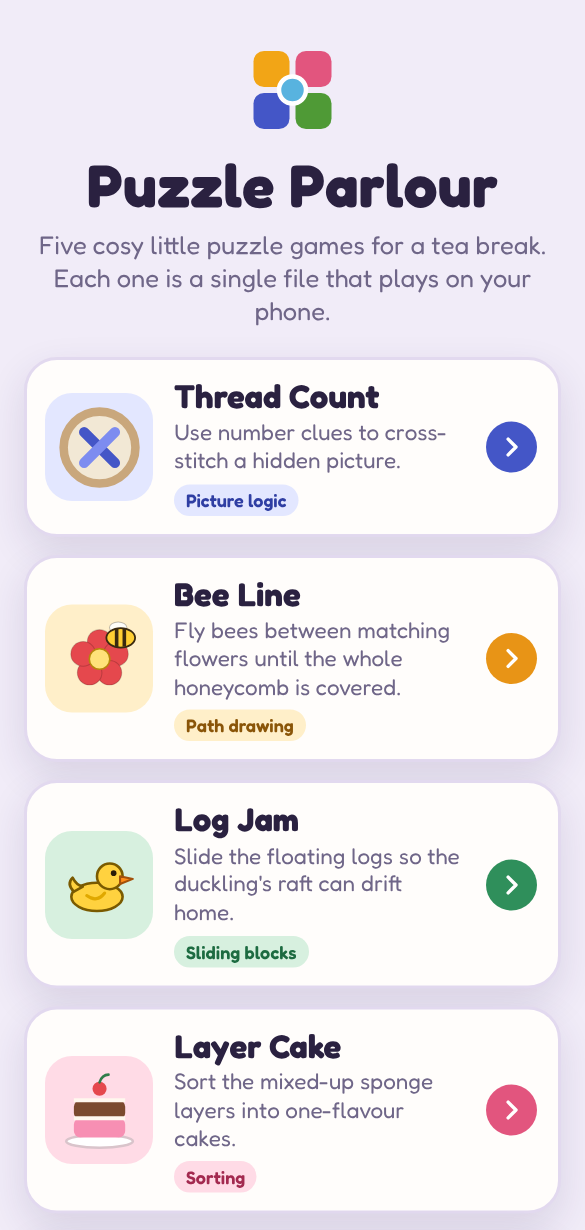
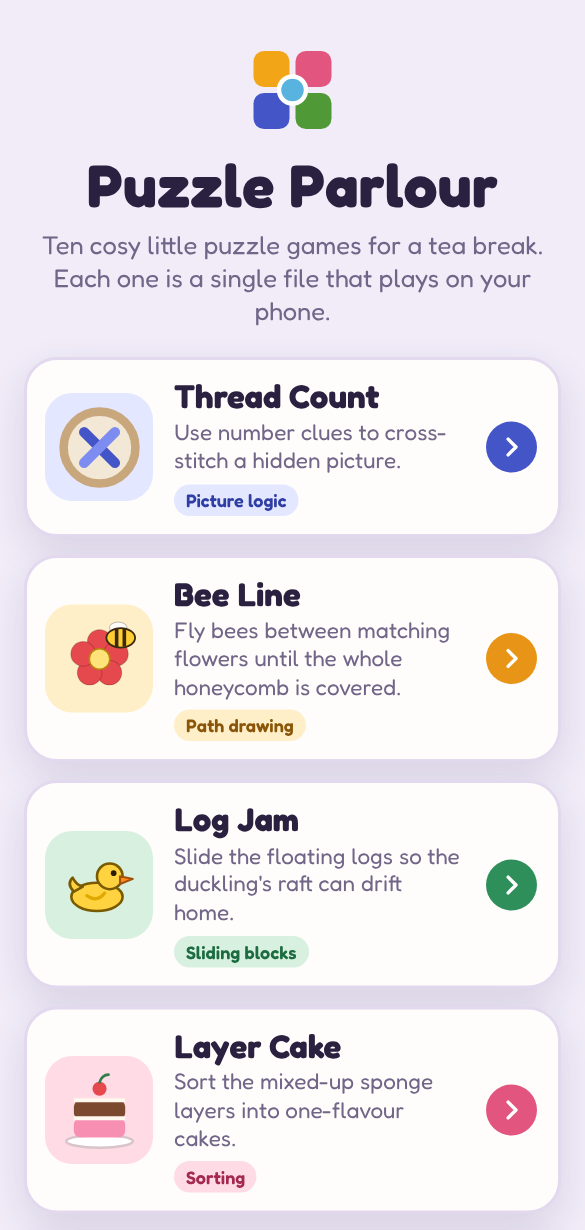
Add the five new games to the launcher
Puzzle Parlour now has ten games. The launcher gets cards for Fair Isle,
Sun Catcher, Patchwork, Truffle Hunt and Fence Line, each showing how
many levels you've solved, and says "ten" instead of "five".

- README: the five new rows in the games table, the zoom note now covers
  every game whose board grows, and the project layout lists the new
  folders. The launcher screenshot is regenerated.
- manifest.json describes all ten games.
- docker-compose.yml mounts the new folders, so `docker compose up`
  serves them too (install/run need no change: serve.py serves the
  whole folder).
- The launcher's service worker caches the new game pages for offline
  play, with a new cache version.

Claude-Session: https://claude.ai/code/session_01G8sKW49SPKUj1opTJDjfuR

Changed region(s): [[0.0615, 0.1854, 0.9231, 0.2163]]

diff --git a/index.html b/index.html
@@ -5,7 +5,7 @@
 <meta name="viewport" content="width=device-width, initial-scale=1, viewport-fit=cover">
 <title>Puzzle Parlour</title>
 <meta name="claude:viewport-fit-sides" content="cover">
-<meta name="description" content="Five cosy, phone-friendly puzzle games in single HTML files.">
+<meta name="description" content="Ten cosy, phone-friendly puzzle games in single HTML files.">
 <meta name="theme-color" content="#f1ecf8" media="(prefers-color-scheme: light)">
 <meta name="theme-color" content="#15111f" media="(prefers-color-scheme: dark)">
 <link rel="manifest" href="manifest.json">
@@ -81,7 +81,7 @@ h1{text-wrap:balance}
   <header>
     <svg class="mark" viewBox="0 0 64 64" aria-hidden="true"><rect x="6" y="6" width="24" height="24" rx="7" fill="#f2a516"/><rect x="34" y="6" width="24" height="24" rx="7" fill="#e2557e"/><rect x="6" y="34" width="24" height="24" rx="7" fill="#4456c7"/><rect x="34" y="34" width="24" height="24" rx="7" fill="#4f9a36"/><circle cx="32" cy="32" r="9" fill="#58b3df" stroke="#fff" stroke-width="3"/></svg>
     <h1>Puzzle Parlour</h1>
-    <p>Five cosy little puzzle games for a tea break. Each one is a single file that plays on your phone.</p>
+    <p>Ten cosy little puzzle games for a tea break. Each one is a single file that plays on your phone.</p>
   </header>
 
   <main class="list">
@@ -108,6 +108,31 @@ h1{text-wrap:balance}
     <a class="game" href="green-thumb/index.html#parlour" data-key="green-thumb-v1" style="--tint:#4f9a36;--tint-bg:#ddf0cf;--tint-ink:#356b22">
       <span class="icon"><svg viewBox="0 0 100 100"><line x1="50" y1="50" x2="50" y2="2" stroke="#8a4f27" stroke-width="36"/><line x1="50" y1="50" x2="98" y2="50" stroke="#8a4f27" stroke-width="36"/><line x1="50" y1="50" x2="50" y2="2" stroke="#b5703f" stroke-width="30"/><line x1="50" y1="50" x2="98" y2="50" stroke="#b5703f" stroke-width="30"/><line x1="50" y1="50" x2="50" y2="2" stroke="#3aa0e3" stroke-width="13" stroke-linecap="round"/><line x1="50" y1="50" x2="98" y2="50" stroke="#3aa0e3" stroke-width="13" stroke-linecap="round"/><circle cx="50" cy="50" r="24" fill="#9b5a33" stroke="#6e3c1f" stroke-width="4"/><g fill="#ff7aa2" stroke="rgba(0,0,0,.15)" stroke-width="1.5"><circle cx="63" cy="50" r="10"/><circle cx="56.5" cy="61.3" r="10"/><circle cx="43.5" cy="61.3" r="10"/><circle cx="37" cy="50" r="10"/><circle cx="43.5" cy="38.7" r="10"/><circle cx="56.5" cy="38.7" r="10"/></g><circle cx="50" cy="50" r="8" fill="#ffd84d" stroke="#c99a1a" stroke-width="2"/></svg></span>
       <span><span class="name">Green Thumb</span><span class="tag" style="display:block">Turn the garden pipes until every seedling is watered.</span><span class="meta"><span class="chip">Pipe rotation</span><span class="chip prog"></span></span></span>
+      <span class="go"><svg viewBox="0 0 24 24" fill="none" stroke="currentColor" stroke-width="3" stroke-linecap="round" stroke-linejoin="round"><path d="M9 5l7 7-7 7"/></svg></span>
+    </a>
+    <a class="game" href="fair-isle/index.html#parlour" data-key="fair-isle-v1" style="--tint:#7a4c9f;--tint-bg:#efe3f8;--tint-ink:#5a3480">
+      <span class="icon"><svg viewBox="0 0 48 48"><path d="M14.5 7.5L30 36M33.5 7.5L18 36" stroke="#e3bd88" stroke-width="3.2" stroke-linecap="round"/><circle cx="14.4" cy="7" r="3" fill="#f2b84b"/><circle cx="33.6" cy="7" r="3" fill="#f2b84b"/><path d="M33 37.5c3 2.2 5.6 3 8.6 2.4" fill="none" stroke="#b8323f" stroke-width="2" stroke-linecap="round"/><circle cx="24" cy="29" r="13.5" fill="#cc3b4d"/><g fill="none" stroke="#8e2433" stroke-width="1.1" opacity=".85"><ellipse cx="24" cy="29" rx="13.3" ry="3.6" transform="rotate(-28 24 29)"/><ellipse cx="24" cy="29" rx="13.3" ry="6.2" transform="rotate(-28 24 29)"/><ellipse cx="24" cy="29" rx="13.3" ry="8.6" transform="rotate(-28 24 29)"/><ellipse cx="24" cy="29" rx="13.3" ry="3.2" transform="rotate(62 24 29)"/><ellipse cx="24" cy="29" rx="13.3" ry="5.8" transform="rotate(62 24 29)"/></g></svg></span>
+      <span><span class="name">Fair Isle</span><span class="tag" style="display:block">Knit a hidden picture from coloured number clues.</span><span class="meta"><span class="chip">Colour picture logic</span><span class="chip prog"></span></span></span>
+      <span class="go"><svg viewBox="0 0 24 24" fill="none" stroke="currentColor" stroke-width="3" stroke-linecap="round" stroke-linejoin="round"><path d="M9 5l7 7-7 7"/></svg></span>
+    </a>
+    <a class="game" href="sun-catcher/index.html#parlour" data-key="sun-catcher-v1" style="--tint:#6a46c4;--tint-bg:#ebe3ff;--tint-ink:#4b2d99">
+      <span class="icon"><svg viewBox="0 0 48 48"><path d="M8 45V20A16 15 0 0 1 40 20V45Z" fill="#b8895a"/><path d="M11.5 20A12.5 11.5 0 0 1 36.5 20Z" fill="#2a2530"/><g stroke="#2a2530" stroke-width="1"><path d="M24 20L12.6 20A11.4 10.4 0 0 1 15.9 12.6Z" fill="#ffd76e"/><path d="M24 20L15.9 12.6A11.4 10.4 0 0 1 24 9.6Z" fill="#f5a548"/><path d="M24 20L24 9.6A11.4 10.4 0 0 1 32.1 12.6Z" fill="#ffd76e"/><path d="M24 20L32.1 12.6A11.4 10.4 0 0 1 35.4 20Z" fill="#f5a548"/></g><rect x="11.5" y="22" width="25" height="20.5" fill="#2a2530"/><rect x="12.5" y="23" width="11" height="9" rx="1" fill="#d8323f"/><rect x="24.5" y="23" width="11" height="9" rx="1" fill="#3268cf"/><rect x="12.5" y="32.5" width="11" height="9" rx="1" fill="#33a464"/><rect x="24.5" y="32.5" width="11" height="9" rx="1" fill="#f6c844"/><rect x="6" y="43" width="36" height="3.5" rx="1.5" fill="#8a6646"/></svg></span>
+      <span><span class="name">Sun Catcher</span><span class="tag" style="display:block">Use number clues to fill the glass and light up a hidden window.</span><span class="meta"><span class="chip">Mosaic logic</span><span class="chip prog"></span></span></span>
+      <span class="go"><svg viewBox="0 0 24 24" fill="none" stroke="currentColor" stroke-width="3" stroke-linecap="round" stroke-linejoin="round"><path d="M9 5l7 7-7 7"/></svg></span>
+    </a>
+    <a class="game" href="patchwork/index.html#parlour" data-key="patchwork-v1" style="--tint:#b8452f;--tint-bg:#fbe0d4;--tint-ink:#8f3322">
+      <span class="icon"><svg viewBox="2 2 44 44"><rect x="4" y="4" width="40" height="40" rx="6" fill="#5e2245"/><rect x="8" y="8" width="11" height="21" fill="#4fb3c9"/><rect x="19" y="8" width="21" height="11" fill="#f3bd5c"/><rect x="19" y="19" width="10" height="10" fill="#ea8aa0"/><rect x="29" y="19" width="11" height="21" fill="#6aa65a"/><rect x="8" y="29" width="21" height="11" fill="#7957ae"/><g fill="#fffaf0"><circle cx="13.5" cy="13" r="1.3"/><circle cx="13.5" cy="18.5" r="1.3"/><circle cx="13.5" cy="24" r="1.3"/></g><path d="M6 6h36v36H6z" fill="none" stroke="#fffaf0" stroke-width="1.2" stroke-dasharray="2.4 2"/><path d="M34 13.5L24.5 23" stroke="#c9ced6" stroke-width="2.2" stroke-linecap="round"/><circle cx="35" cy="12.5" r="4.3" fill="#e5484d"/><circle cx="33.7" cy="11.2" r="1.3" fill="#fff" opacity=".8"/></svg></span>
+      <span><span class="name">Patchwork</span><span class="tag" style="display:block">Cut the quilt into patches, each one as big as the pin it holds.</span><span class="meta"><span class="chip">Area division</span><span class="chip prog"></span></span></span>
+      <span class="go"><svg viewBox="0 0 24 24" fill="none" stroke="currentColor" stroke-width="3" stroke-linecap="round" stroke-linejoin="round"><path d="M9 5l7 7-7 7"/></svg></span>
+    </a>
+    <a class="game" href="truffle-hunt/index.html#parlour" data-key="truffle-hunt-v1" style="--tint:#b4582a;--tint-bg:#f8e1cc;--tint-ink:#8a3f17">
+      <span class="icon"><svg viewBox="0 0 48 48"><g transform="translate(-1 -2) scale(.9)"><path d="M11.5 15L8 3.5l11.5 6z" fill="#ec8fa8" stroke="#b9506d" stroke-width="1.8" stroke-linejoin="round"/><path d="M36.5 15L40 3.5l-11.5 6z" fill="#ec8fa8" stroke="#b9506d" stroke-width="1.8" stroke-linejoin="round"/><circle cx="24" cy="26" r="17" fill="#f7aabd" stroke="#b9506d" stroke-width="1.9"/><circle cx="17" cy="21.5" r="2.3" fill="#3a2230"/><circle cx="31" cy="21.5" r="2.3" fill="#3a2230"/><ellipse cx="24" cy="31" rx="8.2" ry="6" fill="#ef93ab" stroke="#b9506d" stroke-width="1.7"/><ellipse cx="21" cy="31" rx="1.4" ry="2.1" fill="#a8455f"/><ellipse cx="27" cy="31" rx="1.4" ry="2.1" fill="#a8455f"/></g><g transform="translate(39 39) scale(.6) translate(-20 -20)"><path d="M20 8.5c3.6-1 6.8.6 8.4 3.4 3 .8 4.4 4.3 3.4 7.2 1 3.8-1 7.4-4.6 8.2-2.8 2.8-7.6 3-10.6 1-3.8-.2-6.6-3-6.6-6.6C8 19 9 15.2 12 13.6c1-3.4 4.4-5.2 8-5.1z" fill="#4f3021" stroke="#2c180d" stroke-width="1.5" stroke-linejoin="round"/><g fill="#6f4a33"><circle cx="15" cy="16" r="1.7"/><circle cx="22" cy="13" r="1.4"/><circle cx="26" cy="19" r="1.8"/><circle cx="18" cy="22" r="1.5"/></g></g></svg></span>
+      <span><span class="name">Truffle Hunt</span><span class="tag" style="display:block">Follow the pig's sniff to dig the forest floor without squashing a truffle.</span><span class="meta"><span class="chip">Number logic</span><span class="chip prog"></span></span></span>
+      <span class="go"><svg viewBox="0 0 24 24" fill="none" stroke="currentColor" stroke-width="3" stroke-linecap="round" stroke-linejoin="round"><path d="M9 5l7 7-7 7"/></svg></span>
+    </a>
+    <a class="game" href="fence-line/index.html#parlour" data-key="fence-line-v1" style="--tint:#a5652f;--tint-bg:#f3e6d3;--tint-ink:#7a4519">
+      <span class="icon"><svg viewBox="0 0 48 48"><g fill="#fffdf6" stroke="#b9ae96" stroke-width="1.3"><circle cx="15" cy="17" r="6.5"/><circle cx="20" cy="10.5" r="6.5"/><circle cx="28" cy="10.5" r="6.5"/><circle cx="33" cy="17" r="6.5"/><circle cx="31" cy="25" r="6.5"/><circle cx="17" cy="25" r="6.5"/><circle cx="24" cy="18" r="9"/></g><ellipse cx="15.5" cy="20" rx="4.4" ry="2.1" fill="#3d3434" transform="rotate(-24 15.5 20)"/><ellipse cx="32.5" cy="20" rx="4.4" ry="2.1" fill="#3d3434" transform="rotate(24 32.5 20)"/><ellipse cx="24" cy="23" rx="6" ry="7" fill="#3d3434"/><circle cx="21.7" cy="22" r="1.4" fill="#fff"/><circle cx="26.3" cy="22" r="1.4" fill="#fff"/><g fill="#c9864c" stroke="#6b4220" stroke-width="1.5" stroke-linejoin="round"><path d="M10 45V30l3-3 3 3v15z"/><path d="M32 45V30l3-3 3 3v15z"/><rect x="2" y="31" width="44" height="5" rx="2"/><rect x="2" y="39" width="44" height="5" rx="2"/></g></svg></span>
+      <span><span class="name">Fence Line</span><span class="tag" style="display:block">Fence the flock in with one loop that fits every number.</span><span class="meta"><span class="chip">Loop logic</span><span class="chip prog"></span></span></span>
       <span class="go"><svg viewBox="0 0 24 24" fill="none" stroke="currentColor" stroke-width="3" stroke-linecap="round" stroke-linejoin="round"><path d="M9 5l7 7-7 7"/></svg></span>
     </a>
   </main>

diff --git a/sw.js b/sw.js
@@ -1,10 +1,10 @@
 /* Offline support for Puzzle Parlour. Once the page has loaded online, it keeps working with no connection,
    including from a home-screen icon. The build stamps a new VERSION whenever the files change. */
 const APP = 'parlour';
-const VERSION = '14450b92ab';
+const VERSION = '81787867cb';
 const CACHE = APP + '-' + VERSION;
 const FONTS = APP + '-fonts';
-const FILES = ["./","index.html","manifest.json","icons/icon-192.png","icons/icon-512.png","icons/maskable-512.png","icons/apple-touch-icon.png","bee-line/index.html","green-thumb/index.html","layer-cake/index.html","log-jam/index.html","thread-count/index.html"];
+const FILES = ["./","index.html","manifest.json","icons/icon-192.png","icons/icon-512.png","icons/maskable-512.png","icons/apple-touch-icon.png","bee-line/index.html","fair-isle/index.html","fence-line/index.html","green-thumb/index.html","layer-cake/index.html","log-jam/index.html","patchwork/index.html","sun-catcher/index.html","thread-count/index.html","truffle-hunt/index.html"];
 
 self.addEventListener('install', (event) => {
   event.waitUntil(caches.open(CACHE).then((c) => c.addAll(FILES)).then(() => self.skipWaiting()));

diff --git a/README.md b/README.md
@@ -1,6 +1,6 @@
 # Puzzle Parlour
 
-Five cosy, phone-friendly puzzle games, each a single self-contained HTML file in the same spirit as [Whisker Hunt](https://github.com/HamiltonSteff/Whisker-Hunt). Each takes a well-known puzzle format and gives it its own twist and theme.
+Ten cosy, phone-friendly puzzle games, each a single self-contained HTML file in the same spirit as [Whisker Hunt](https://github.com/HamiltonSteff/Whisker-Hunt). Each takes a well-known puzzle format and gives it its own twist and theme.
 
 **▶ Play now: <https://olkham.github.io/puzzle-parlour/>**
 
@@ -13,8 +13,13 @@ Five cosy, phone-friendly puzzle games, each a single self-contained HTML file i
 | [🦆 Log Jam](log-jam/) | Sliding blocks | Rush Hour | A river of logs and rocks, with exact par for every level |
 | [🍰 Layer Cake](layer-cake/) | Sorting | Water sort | Cake layers with flavour patterns, plus mystery bakes |
 | [🌱 Green Thumb](green-thumb/) | Pipe rotation | Net / Pipe Mania | Live water flow, blooming seedlings and pinnable tiles |
+| [🧶 Fair Isle](fair-isle/) | Colour picture logic | Colour nonograms | Knitting in up to four yarns; finished pieces become jumpers, mittens and hats |
+| [🪟 Sun Catcher](sun-catcher/) | Mosaic logic | Fill-a-Pix | Stained glass: finished windows light up pane by pane as the sun pours through |
+| [🪡 Patchwork](patchwork/) | Area division | Shikaku | Every patch gets a fabric print, and finished quilts are stitched and bound |
+| [🐷 Truffle Hunt](truffle-hunt/) | Number logic | Minesweeper | Never a guess: every board is solver-checked from the pig's clearing |
+| [🐑 Fence Line](fence-line/) | Loop logic | Slitherlink | Close the fence and the flock hops into a blooming paddock |
 
-Every game has hand-tuned or solver-verified levels, a level picker, three-star or three-heart scoring, undo or hints where they fit, light and dark mode, saved progress, and procedural background music and sound effects (no audio files). The games whose boards grow (Thread Count, Bee Line and Green Thumb) let you pinch to zoom in on big boards and drag around them; on desktop, the mouse wheel and the + − 0 keys do the same.
+Every game has hand-tuned or solver-verified levels, a level picker, three-star or three-heart scoring, undo or hints where they fit, light and dark mode, saved progress, and procedural background music and sound effects (no audio files). Every game whose board grows (all but Log Jam and Layer Cake) lets you pinch to zoom in on big boards and drag around them; on desktop, the mouse wheel and the + − 0 keys do the same.
 
 ## Getting started
 
@@ -64,13 +69,18 @@ Two places this won't work: the local server over Wi-Fi (`http://192.168…` isn
 ```
 index.html          the launcher (shows how many levels you've solved in each game)
 manifest.json       app details for installing the launcher
-sw.js               offline support for the launcher (it also keeps all five games)
+sw.js               offline support for the launcher (it also keeps all ten games)
 icons/              home-screen icons
 thread-count/       each game: index.html (everything inlined), manifest.json, sw.js, icons/, README.md, screenshot.png
 bee-line/
 log-jam/
 layer-cake/
 green-thumb/
+fair-isle/
+sun-catcher/
+patchwork/
+truffle-hunt/
+fence-line/
 serve.py            tiny local web server with a phone QR code
 install.sh/.bat     sets up .venv for serve.py
 run.sh/.bat         starts serve.py
